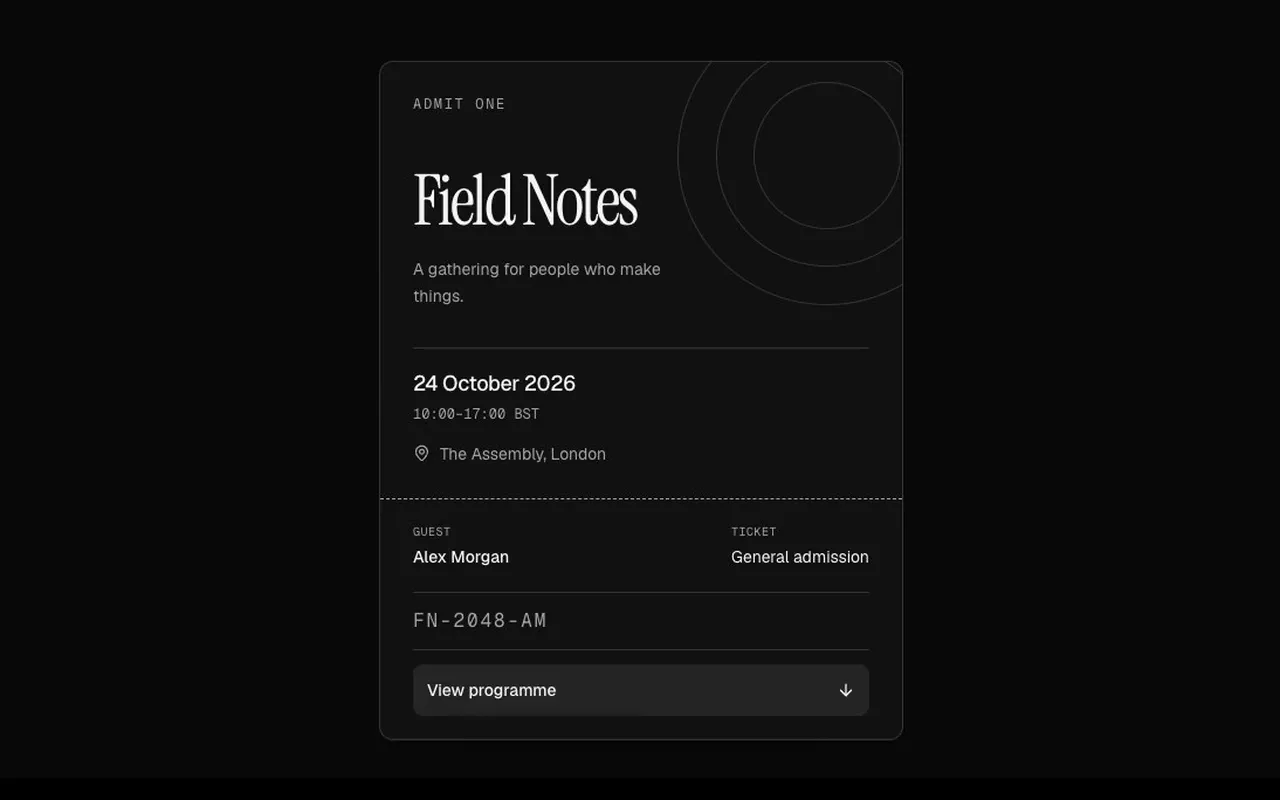
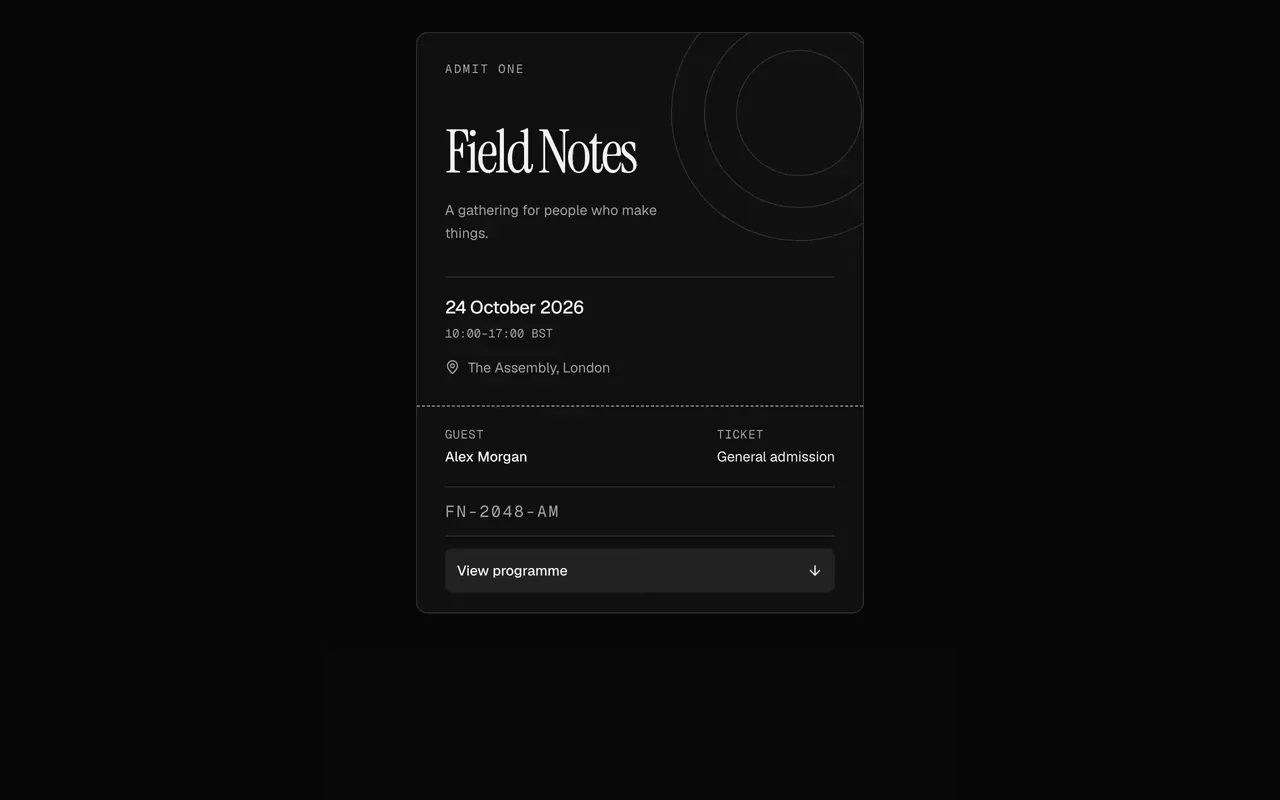
Verify Event Ticket disclosure, reading time and complete preview media

diff --git a/docs/review/HANDOFF_TASKS.md b/docs/review/HANDOFF_TASKS.md
@@ -342,6 +342,8 @@ and how to know it's done. Pick any of them up independently. Background, briefs
 
 - Task 7 (19 October): Release Notes keeps its editorial timeline and now stops active entry motion immediately when reduced motion changes, retaining selected text and disclosure focus. Filters fit one row at 320px, dates use readable 12px text, and the complete phone demo fits its 1,120px stage. Reader-scoped selection corrects the preserved 1.44:1 light-theme failure to 17.93:1 (17.32:1 dark). The 29-mount source review, fourteen state/default accessibility audits, six widths and reviewed entrance/state captures pass; the current selection follow-up adds fourteen workflow mounts and twelve state audits. The Next regression, three controls, official audit and exact Features replay pass, with strict registry, TypeScript and all 1,064 unit tests. Its reviewed 3.5s film and paired poster are current: maximum source gap 12ms, changed-source delivery 62.65ms and moving-frame p95 33.14ms, with no stalls and unchanged guards. The new content/cards group brings the next full checkpoint to 61 suites and 71 metadata replays; that batch checkpoint remains pending. 23 components and 12 blocks remain in task 7.
 
+- Task 7 (19 October): Event Ticket keeps its large serif identity and perforated guest stub. Guest/ticket labels and programme times use 12px metadata, and the programme has an interruptible 240ms height/opacity disclosure that stops immediately on live reduced motion. Closed contents leave keyboard and accessibility navigation at once. The 27-mount source review, fourteen state/default accessibility audits, six widths, long guest/reference/programme, empty/updated content, independent IDs, entrance/state captures, Next regression, three controls and official audit pass. Metadata replay observes the actual closed/open/closed sequence and a zero-height final programme. Strict registry, root/isolated Pro types and all 1,064 unit tests pass. Its reviewed 3.32s film and paired poster pass every unchanged recording guard, with no stalls (source gap 13ms, delivery 24.63ms, moving-frame p95 24.90ms). A measured 640×800 fixed viewport retains the complete expanded programme at 2× density. The accepted owned-tab film follows longer programme-reading holds; navigation, screenshot-delivery and short-film failures remain archived. The next full checkpoint has 61 suites and 72 metadata replays and remains pending. 22 components and 12 blocks remain in task 7.
+
 ## 1. Re-record demo videos (112 components)
 
 Every rebuilt component's poster is current but its catalogue film (`public/previews/<slug>.mp4`) still shows the old
@@ -488,17 +490,16 @@ All nine parked rebuilds are shipped in both repos. Their original `_wip/<slug>`
 | finance-budget-variance | Completed 17 October: Next probe, dark/light accessibility, responsive and entrance/state captures, live demo and refreshed poster pass. |
 | finance-cashflow-dashboard | Completed 17 October: weekly balance and in/out bars, movable payments, independent pending saves, invalid-data guards, selected-week list geometry, Next probe/demo, both-theme accessibility, responsive/state/entrance captures and refreshed poster pass. |
 
-## 7. Continue the review (23 components, then 12 blocks)
+## 7. Continue the review (22 components, then 12 blocks)
 
-Same process as the 175 already done: hold each to the first ~100 components' standard. Briefs:
+Same process as the 176 already done: hold each to the first ~100 components' standard. Briefs:
 `docs/review/REVIEW_BRIEF.md`, `docs/review/SUITE_BRIEF.md` for industry components, suite languages in
 `docs/review/suites/`. Work newest first, about four components per batch, and verify each (build, tsc, tests,
 check-component, your own captures of states and mid-entrance frames, a refreshed poster, a rewritten pro-50 probe for
 industry components).
 
 - **Commerce** is reviewed. Keep `block-commerce-workspace` compatible with its rebuilt parts.
-- **Smaller components** (#151–179): cards-event-ticket,
-  chart-slope-comparison, chart-bullet-targets, media-story-deck, devtools-request-waterfall, devtools-json-inspector,
+- **Smaller components** (#151–179): chart-slope-comparison, chart-bullet-targets, media-story-deck, devtools-request-waterfall, devtools-json-inspector,
   media-before-after, data-kanban-compact, data-file-explorer, forms-preference-center, date-week-agenda,
   onboarding-setup-checklist, date-booking-slots, input-file-dropzone, input-shortcut-recorder,
   feedback-empty-search, navigation-pagination-window, primitives-shortcut-reference, selects-radio-cards,

diff --git a/docs/review/STATUS.md b/docs/review/STATUS.md
@@ -1,6 +1,6 @@
 # Review status
 
-175 components are rebuilt (or, for a few, polished), verified and committed. For each: whether its demo video
+176 components are rebuilt (or, for a few, polished), verified and committed. For each: whether its demo video
 needs re-recording, whether its poster is current, and the state of its browser regression probe.
 
 - **Video**: `new` means `public/previews/<slug>.mp4` still shows the old version. Re-record serially on a quiet machine:
@@ -9,7 +9,7 @@ needs re-recording, whether its poster is current, and the state of its browser 
 - **Probe**: the `tests/browser/pro-50/<slug>.mjs` state, or another probe that covers it. Blank means no browser test
   was written in this review; those are the ones for a separate pass.
 
-Release Notes also passes its focused review, three controls, official audit and exact Features replay, with a reviewed current film/poster. Its new content/cards group brings the next full checkpoint to 61 suites and 71 metadata replays. That next batch checkpoint is pending.
+Release Notes also passes its focused review, three controls, official audit and exact Features replay, with a reviewed current film/poster. Release Notes and Event Ticket bring the next full checkpoint to 61 suites and 72 metadata replays. That next batch checkpoint is pending.
 
 ## Batch verification (19 October 2026)
 
@@ -300,3 +300,4 @@ See [the handoff checkpoint](HANDOFF_TASKS.md#8-final-release-checks) for revisi
 | Slug | Video | Poster | Probe |
 | --- | --- | --- | --- |
 | `content-release-notes` | current | current | Keyboard filters/disclosure, exact filtered lists, empty/arriving data, invalid limits, live reduced motion and selected-text contrast pass. The 29-mount source review, fourteen state/default accessibility audits, current fourteen-mount selection follow-up with twelve state audits, six widths, entrance/state captures, Next regression, three controls, official audit and exact Features replay pass. Strict registry, TypeScript and all 1,064 unit tests pass. Reviewed 3.5s film and paired poster are current, with all recording guards retained. |
+| `cards-event-ticket` | current | current | Native keyboard disclosure, empty/updated programmes, long guest/reference text, independent ticket IDs and live reduced motion pass. The 27-mount source review, fourteen state/default accessibility audits, six widths, entrance/state captures, Next regression, three controls, official audit and exact closed/open/closed replay pass. Strict registry, root/isolated Pro types and all 1,064 unit tests pass. Reviewed 3.32s film and paired poster are current, with every recording guard retained. |
